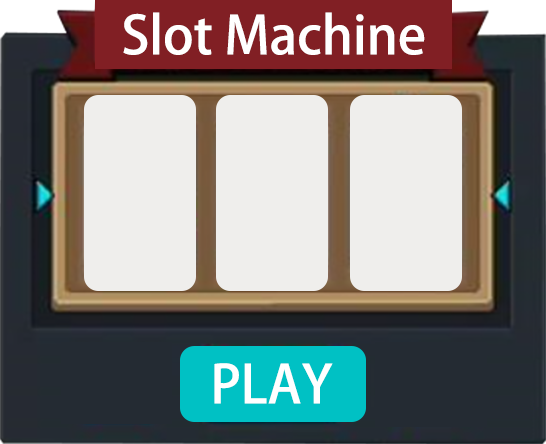
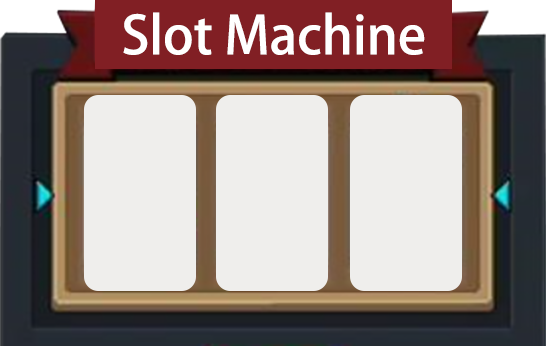
增加了老虎机部分

diff --git a/src/main.py b/src/main.py
@@ -61,6 +61,19 @@ portalFrameCnt = 0
 portalWidth = 122
 portalHeight = 142
 
+# 老虎机相关
+slotmachineWidth_small = 74
+slotmachineHeight_small = 142
+slotmachineWidth_big = 546
+slotmachineHeight_big = 346
+slotmachineCnt = 0
+slotmachineFlag = 0
+awardFlag = ''
+slotItem1 = 'slotmachine_item1'
+slotItem2 = 'slotmachine_item1'
+slotItem3 = 'slotmachine_item1'
+itemSize = 99
+
 # 战斗相关
 # 屏幕中的子弹列表，每次画都需要更新，然后用不同的列表来区分伤害判定
 playerBulletList = []
@@ -597,18 +610,78 @@ def portal_create(x, y):
 	elif 40 <= portalFrameCnt < 60:
 		screen.blit("portal_03", (x - 0.5 * portalWidth, y - 0.5 * portalHeight))
 	if x - 0.5 * portalWidth - player.actor.width <= player.actor.left <= x + 0.5 * portalWidth and y - 0.5 * portalHeight - player.actor.height <= player.actor.top <= y + 0.5 * portalHeight:
-		screen.blit("talk_bar", (WIDTH - barWidth, 3 * barHeight))
 		screen.draw.text(f"It's a PORTAL!\nLet's go into it!", center=(WIDTH - 0.5 * barWidth, 4.5 * barHeight),
 						 fontname="hanyinuomituan")
 		chatchoose = 1
 		curButton = Button(False, "GO!")
-		# screen.blit("choose_bar_1", (WIDTH - barWidth, 6 * barHeight))
-		# screen.draw.text("GO!", center=(WIDTH - 0.5 * barWidth, 6.5 * barHeight),
-		#				  fontname="hanyinuomituan")
 	else:	# 离开传送门，重新设置
 		if chatchoose == 1:
 			chatchoose = 0
 			curButton = None
+
+
+# 生成老虎机
+def slotmachine_create(x, y):
+    global curButton
+    global chatchoose
+    screen.blit("slotmachine_small", (x - 0.5 * slotmachineWidth_small, y - 0.2 * slotmachineHeight_small))
+    if slotmachineFlag == 0 and x - 0.5 * slotmachineWidth_small - player.actor.width <= player.actor.left <= x + 0.5 * slotmachineWidth_small and y - 0.5 * slotmachineHeight_small - player.actor.height <= player.actor.top <= y + 0.5 * slotmachineHeight_small:
+        screen.draw.text(f"It's a\nSlot Machine!\nPlay It?", center=(WIDTH - 0.5 * barWidth, 4.5 * barHeight),
+                         fontname="hanyinuomituan")
+        chatchoose = 998
+        curButton = Button(False, "PLAY!")
+    else:  # 离开老虎机，重新设置
+        if chatchoose == 998:
+            chatchoose = 0
+            curButton = None
+
+
+# 老虎机加载
+def slotmachine_play():
+    global slotmachineFlag
+    slotmachineFlag = 4
+
+# 老虎机抽奖
+def slotmachine_choice():
+    screen.blit("slotmachine", (0.5 * HEIGHT - 0.5 * slotmachineWidth_big, 0.5 * HEIGHT - 0.5 * slotmachineHeight_big))
+    global slotItem1, slotItem2, slotItem3, slotmachineCnt, slotmachineFlag
+    if slotmachineCnt <= 180:
+        slotItem1 = f"slotmachine_item{random.randint(1,6)}"
+    if slotmachineCnt <= 240:
+        slotItem2 = f"slotmachine_item{random.randint(1,6)}"
+    if slotmachineCnt <= 300:
+        slotItem3 = f"slotmachine_item{random.randint(1,6)}"
+    screen.blit(slotItem1, (0.5 * HEIGHT - 0.25 * slotmachineWidth_big - 0.5 * itemSize, 0.5 * HEIGHT - 0.25 * itemSize))
+    screen.blit(slotItem2, (0.5 * HEIGHT - 0.5 * itemSize, 0.5 * HEIGHT - 0.25 * itemSize))
+    screen.blit(slotItem3, (0.5 * HEIGHT + 0.25 * slotmachineWidth_big - 0.5 * itemSize, 0.5 * HEIGHT - 0.25 * itemSize))
+    if slotmachineCnt >360:
+        if slotItem1 == slotItem2 == slotItem3:
+            slotmachineFlag = 3
+        elif slotItem1 == slotItem2 or slotItem1 == slotItem3 or slotItem3 == slotItem2:
+            slotmachineFlag = 2
+        else:
+            slotmachineFlag = 1
+        slotmachine_award()
+
+# 老虎机奖励
+def slotmachine_award():
+    global awardFlag, roleChoose, slotmachineFlag
+    if slotmachineFlag == 3:
+        awardFlag = random.choice(["orange_unicorn_rt", "blue_ice_rt", "blue_sakura_rt"])
+    elif slotmachineFlag == 2:
+        awardFlag = random.choice(["green_snowfox_rt", "green_firegun_rt", "green_rattlesnake_rt"])
+    elif slotmachineFlag == 1:
+        awardFlag = random.choice(["white_ak47_rt", "white_m4_rt", "white_sniper_rt", "white_shotgun_rt"])
+    if slotItem1 != "slotmachine_item1" and slotItem2 != "slotmachine_item1" and slotItem3 != "slotmachine_item1":
+        player.hp += slotmachineFlag
+        if player.hp >= player.hp_MAX:
+            player.hp = player.hp_MAX
+    else:
+        player.get_damage(slotmachineFlag)
+        slotmachineFlag = 5
+# todo 武器奖励部分暂时这样写，以后有拾取武器了再改
+
+
 
 # 随机画地图背景
 def draw_map():
@@ -656,6 +729,10 @@ def clear_level_data():
 	enemyBulletList = []
 	enemyList = []
 	music.stop()
+	global slotmachineFlag, slotmachineCnt, awardFlag
+	slotmachineFlag = 0
+	slotmachineCnt = 0
+	awardFlag = ''
 
 def next_level():	# 进入下一关
 	#todo 这里可能要加入更复杂的逻辑（如果要错线的话
@@ -772,9 +849,7 @@ def draw_button():
 		screen.draw.text(curButton.caption1, center=curButton.actor.center, fontname="hanyinuomituan")
 
 def draw():
-	global frameCnt
-	global portalFrameCnt
-	global initialFlag
+	global frameCnt, portalFrameCnt, initialFlag, slotmachineCnt
 	screen.clear()
 
 	draw_bar()
@@ -824,6 +899,12 @@ def draw():
 		else:
 			if not enemyList:  # 敌人打完了
 				portal_create(0.5 * wallnum * wallSize, 0.5 * wallnum * wallSize)
+				slotmachine_create(0.5 * wallnum * wallSize, 0.2 * wallnum * wallSize)
+				if slotmachineFlag == 4:
+					slotmachineCnt += 1
+					slotmachine_choice()
+		if awardFlag != '':
+			screen.blit(awardFlag, (0.5 * wallnum * wallSize, 0.2 * wallnum * wallSize))
 
 		if player.immuneTime and player.immuneTime % 20 < 10:
 			pass	# 无敌时间，为了看得更直观加个pass、else
@@ -842,7 +923,7 @@ def on_mouse_move(pos):
 def on_mouse_down(pos, button):
 	#todo 这里应该加个判断，判断当前是否在战斗中
 	global player, level
-	global roleChoose
+	global roleChoose, chatchoose
 	if roleChoose == 0 and button == mouse.LEFT:
 		choose_role(pos)
 		if roleChoose == 1:
@@ -867,6 +948,11 @@ def on_mouse_down(pos, button):
 			if response == "OK":
 				clear_level_data()
 				next_level()
+		elif chatchoose == 998:  # 选择老虎机
+			response = curButton.detect(pos)
+			if response == "OK":
+				slotmachine_play()
+				chatchoose = 0
 		elif chatchoose == 2:
 			pass  # todo 这里加上如果点击在某个范围内，就怎样怎样
 
